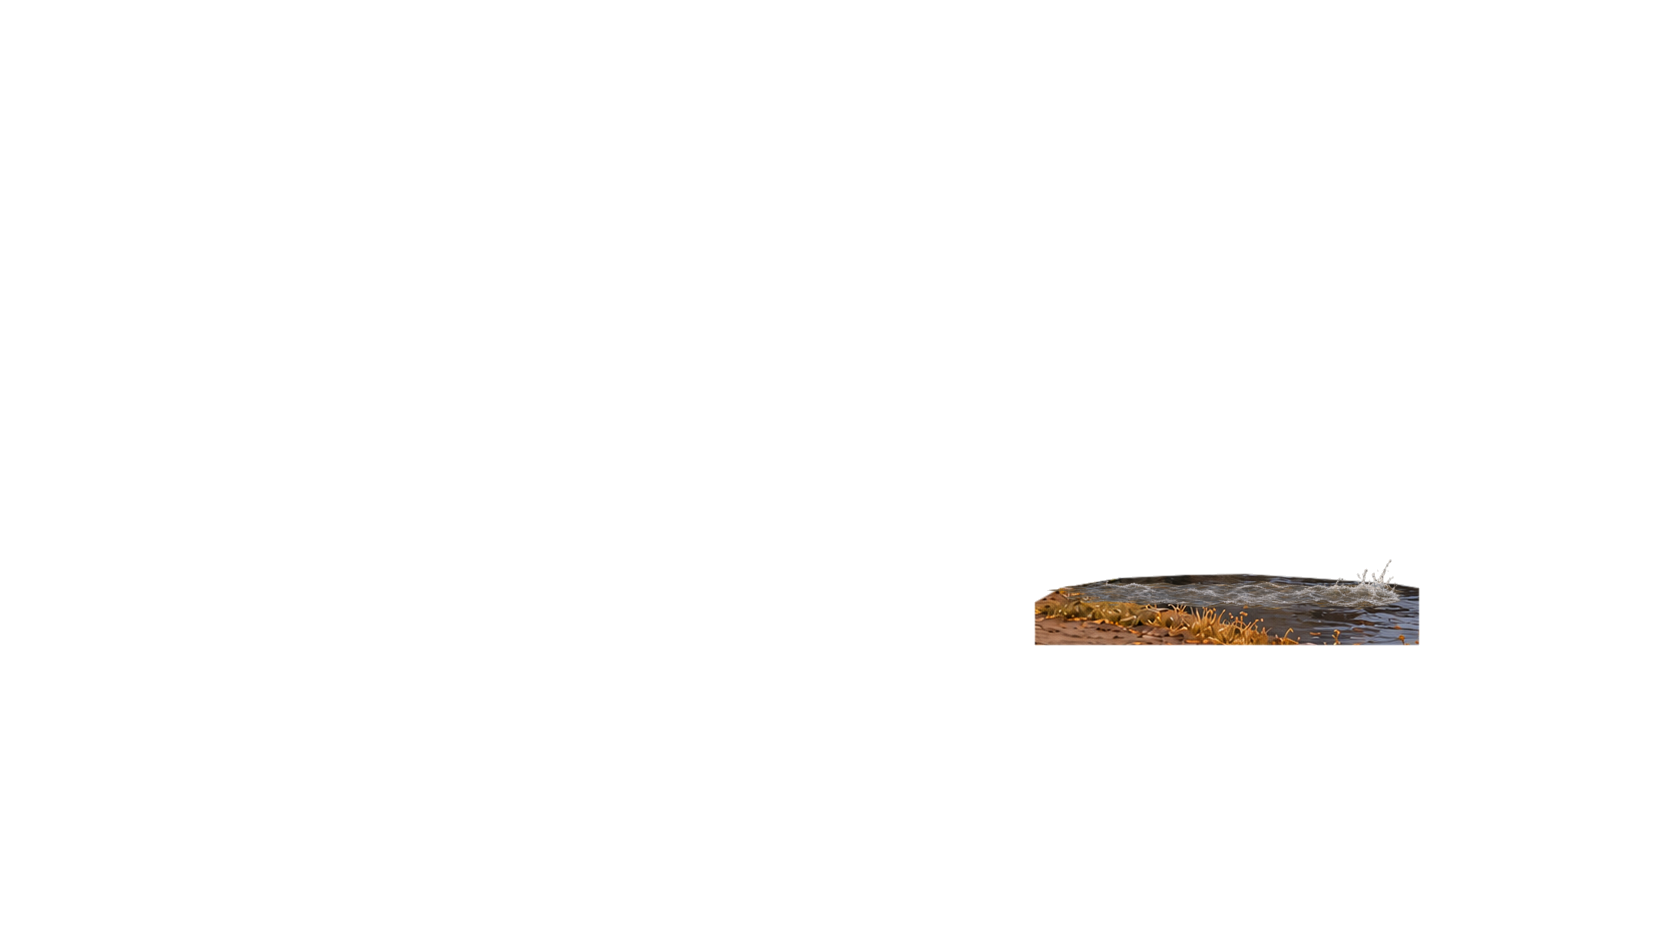
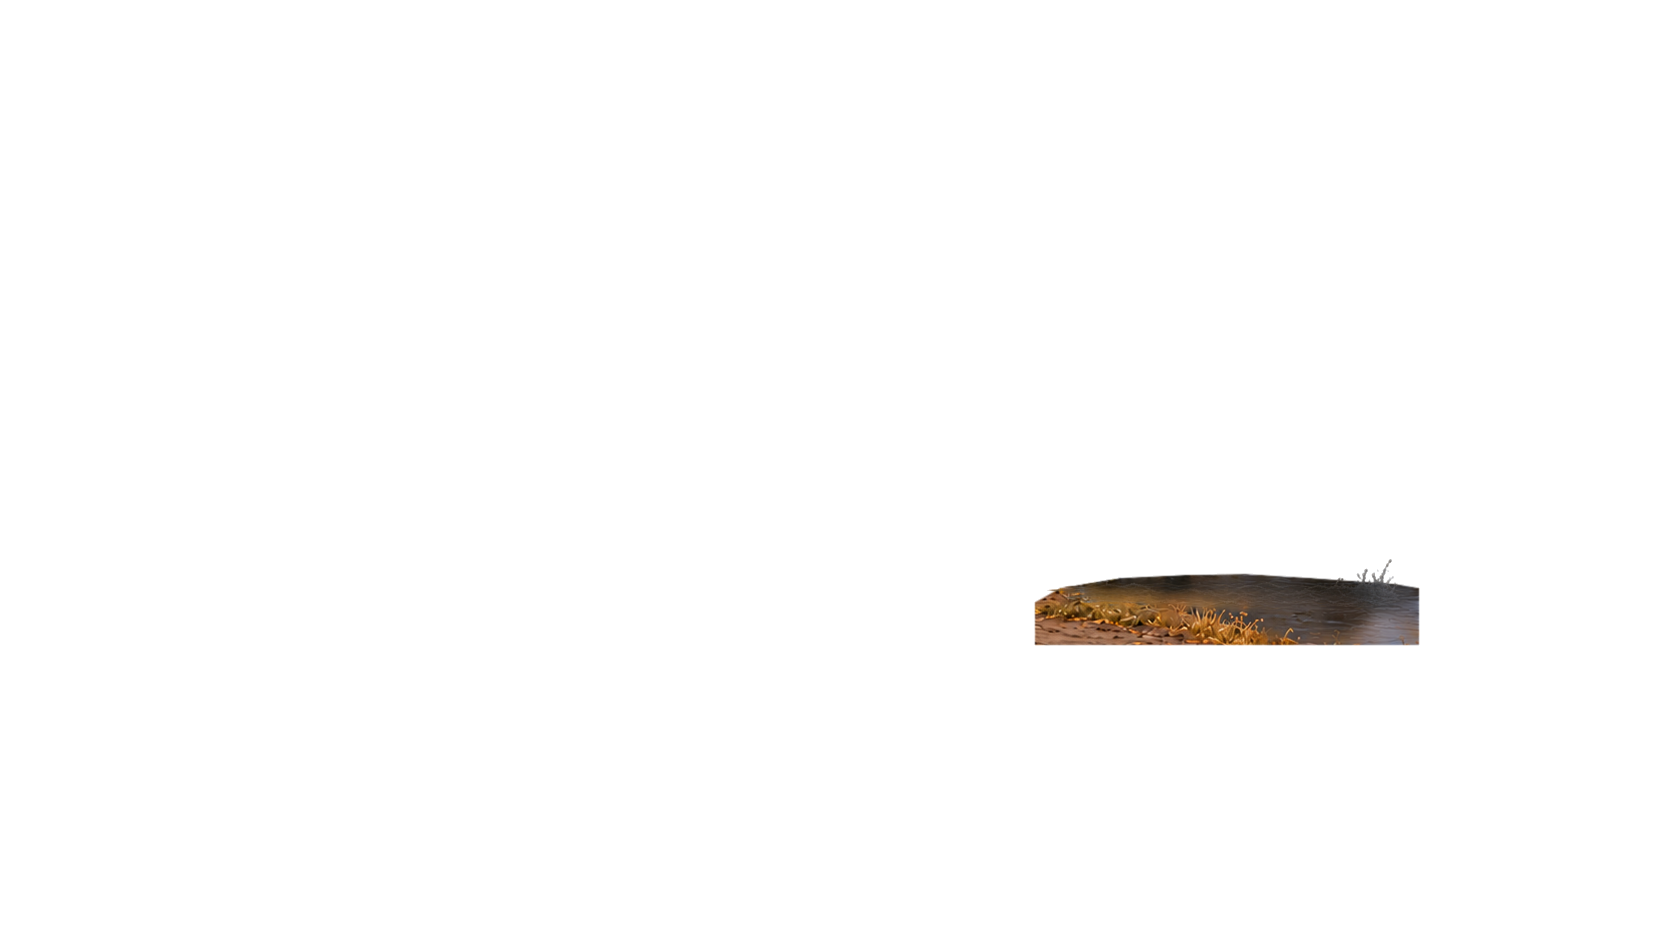
Блок 3: вода — у колеса мельницы без нарисованной пены и брызг (живые — шейдер и частицы), ближние лужи в меню — свой канал маски и своя рябь (ветер полосами, зыбь, блики) [skip ci]
Claude-Session: https://claude.ai/code/session_01Qvdjz1zmfr41cRSvLxvjeK

Changed region(s): [[0.6531, 0.6164, 0.8708, 0.7088]]

diff --git a/tools/retouch/M1_water_clean.py b/tools/retouch/M1_water_clean.py
@@ -1,0 +1,61 @@
+"""Вода у колеса мельницы без нарисованной пены и брызг (Директор 02.11, стр. 1: «вода на мельнице — всё ещё не ок…
+нижняя часть статичная, и брызги статичны и нарисованы, что нереально»): слой water_1 (вода перед колесом) собирается
+заново из фона, заплаты лотка и прежнего слоя (холст 1672×941, assets/incoming/M1_bg.png, M1_state_wheel_pit.png),
+и на нём светлые пятна пены и столб брызг (яркость выше медианы окрестности на LIFT, насыщенность ниже SAT_MAX,
+чуть расширенные) заменяются той же строкой чистой воды ниже по течению (справа от колеса, x ≥ 1430 холста — там
+пены не рисовали; рябь горизонтальная, повтор по строке не виден), с мягким краем. Прозрачность — прежняя (форма воды слоя). Пена, брызги и струи — только живые:
+шейдер воды (ambient/M1.json water wheel_foam) и частицы колеса (wheel_water: ковши, удар лопастей, пена кружевом)."""
+from __future__ import annotations
+
+from pathlib import Path
+
+import cv2
+import numpy as np
+from PIL import Image
+
+ROOT = Path(__file__).resolve().parents[2]
+LIFT = 20
+SAT_MAX = 75
+WATER_Y = (520, 700)
+CLEAN_X0 = 1330   # the race's clean water under the gate (bg + pit, without this layer): x 1330–1490 of the canvas
+PERIOD = 160
+
+
+def retouch(im: Image.Image) -> Image.Image:
+    layer = np.array(im.convert("RGBA"))
+    al = layer[..., 3]
+    comp = Image.open(ROOT / "assets/incoming/M1_bg.png").convert("RGBA")
+    comp.alpha_composite(Image.open(ROOT / "assets/incoming/M1_state_wheel_pit.png").convert("RGBA"))
+    base = np.array(comp)[..., :3].copy()   # fill source: the race without this layer's painted foam
+    comp.alpha_composite(im.convert("RGBA"))
+    c = np.array(comp)[..., :3]
+    hsv = cv2.cvtColor(c, cv2.COLOR_RGB2HSV)
+    v = hsv[..., 2].astype(np.int32)
+    s = hsv[..., 1].astype(np.int32)
+    med = cv2.medianBlur(hsv[..., 2], 41).astype(np.int32)
+    band = np.zeros(al.shape, bool)
+    band[WATER_Y[0]:WATER_Y[1], :] = True
+    water = band & (al > 0)
+    foam = water & (v > med + LIFT) & (s < SAT_MAX)
+    # also the plume's bright tips above the water line and the light swirl right under the wheel
+    foam |= water & (v > 150) & (s < 40)
+    foam = cv2.dilate(foam.astype(np.uint8), np.ones((5, 5), np.uint8), iterations=3) > 0
+    foam &= water
+    # a source pixel must be water itself: grey-blue, not the bank's yellow grass and clay inside the layer
+    hue = hsv[..., 0].astype(np.int32)
+    watery = water & ~foam & ((s < 45) | ((hue > 80) & (hue < 130))) & (v < med - 4)
+    # the fill: the same row's clean water downstream of the race (right of the wheel, x ≥ CLEAN_X0 — no foam
+    # was painted there), tiled along the row with a gentle cross-fade; rows without clean water take the nearest row's
+    bh = cv2.cvtColor(base, cv2.COLOR_RGB2HSV).astype(np.int32)
+    src_ok = band & ~((bh[..., 0] >= 5) & (bh[..., 0] <= 35) & (bh[..., 1] > 70)) & (bh[..., 2] < 150)   # not grass
+    # the fill: the water's own colour round the foam (inpaint at half size — a smooth field, no copied patterns), with
+    # a fifth of the old picture's ripple left in it; the live foam and streaks come from the shader and the particles
+    small = cv2.resize(c, (c.shape[1] // 2, c.shape[0] // 2), interpolation=cv2.INTER_AREA)
+    m_small = cv2.resize(foam.astype(np.uint8) * 255, (c.shape[1] // 2, c.shape[0] // 2), interpolation=cv2.INTER_NEAREST)
+    smooth = cv2.resize(cv2.inpaint(small, m_small, 9, cv2.INPAINT_TELEA), (c.shape[1], c.shape[0]), interpolation=cv2.INTER_CUBIC)
+    detail = c.astype(np.float32) - cv2.GaussianBlur(c, (0, 0), 2.0).astype(np.float32)
+    fill = np.clip(smooth.astype(np.float32) + detail * 0.25, 0, 255).astype(np.uint8)
+    soft = cv2.GaussianBlur(foam.astype(np.float32), (0, 0), 3.0)[..., None]
+    out = (c * (1 - soft) + fill * soft).astype(np.uint8)
+    res = np.dstack([out, al])
+    return Image.fromarray(res, "RGBA")

diff --git a/tools/import_menu_art.py b/tools/import_menu_art.py
@@ -96,11 +96,17 @@ def fx_mask(src: np.ndarray, masks: dict) -> np.ndarray:
     water = np.clip(water * 1.25, 0, 1)
     # J (Директор 29.10, стр. 4: «ближняя вода тоже качается»): лужи на тропинке у крыльца — свой отбор, мягче (в
     # них листья и блики заката), и слабее (`water_near_weight`): рябь лужи, не течение реки.
+    # Блок 3 (Директор 02.11, стр. 39: «ближняя вода в главном меню — всё так же не доделана»): лужи и мокрая тропа у
+    # крыльца — свой канал A маски (у шейдера своя рябь: ветер набегает полосами, мелкая зыбь и блики заката), не
+    # слабая копия речной; снег у края луж (белый, бледный) и комья земли (тёмные) не плывут.
+    near = np.zeros((H, W), np.float32)
     if masks.get("water_near"):
         zn = poly_mask(masks["water_near"], feather=6.0)
         smooth_n = 1.0 - smoothstep(180.0, 900.0, var)
-        near = cv2.GaussianBlur(zn * smooth_n, (0, 0), 2.0) * float(masks.get("water_near_weight", 0.6))
-        water = np.maximum(water, np.clip(near, 0, 1))
+        snow = smoothstep(185.0, 215.0, val) * (1.0 - smoothstep(18.0, 40.0, sat))
+        mud = 1.0 - smoothstep(35.0, 60.0, val)
+        near = cv2.GaussianBlur(zn * smooth_n * (1.0 - snow) * (1.0 - mud), (0, 0), 2.0)
+        near = np.clip(near * float(masks.get("water_near_weight", 1.0)), 0, 1)
     # Директор 25.10 стр. 2, 29.10 стр. 4: «вода ближе к берегу статична» — полоса озера у ближнего берега, между
     # верхушками прибрежных деревьев, и дорожка солнца у берега. Здесь вода в бликах (рябь заката) — отбор мягче, чем
     # у открытой воды, но без деревьев: кроны тёплые/тёмные, стволы и ветки дают вертикальные перепады (|gx| > |gy|),
@@ -145,7 +151,7 @@ def fx_mask(src: np.ndarray, masks: dict) -> np.ndarray:
     win = poly_mask([masks["window"]], feather=1.5)
     light = smoothstep(95, 170, L) * smoothstep(20, 60, src[..., 0] - src[..., 2])
     glow = np.clip(cv2.GaussianBlur(win * light, (0, 0), 2.5) * 1.15, 0, 1)
-    out = np.dstack([water, sway, glow]) * 255.0
+    out = np.dstack([water, sway, glow, near]) * 255.0
     half = cv2.resize(out, (W // 2, H // 2), interpolation=cv2.INTER_AREA)
     return half
 
@@ -189,6 +195,8 @@ def main() -> int:
         ov[..., 0] += big[..., 1] * 200          # sway — red
         ov[..., 2] += big[..., 0] * 220          # water — blue
         ov[..., 1] += big[..., 2] * 220          # window — green
+        ov[..., 1] += big[..., 3] * 160          # near water (puddles) — cyan
+        ov[..., 2] += big[..., 3] * 160
         save_png(np.clip(ov, 0, 255), DEBUG / "fx_mask_overlay.png")
     for k, v in record.items():
         print(f"{k}: {v}")
